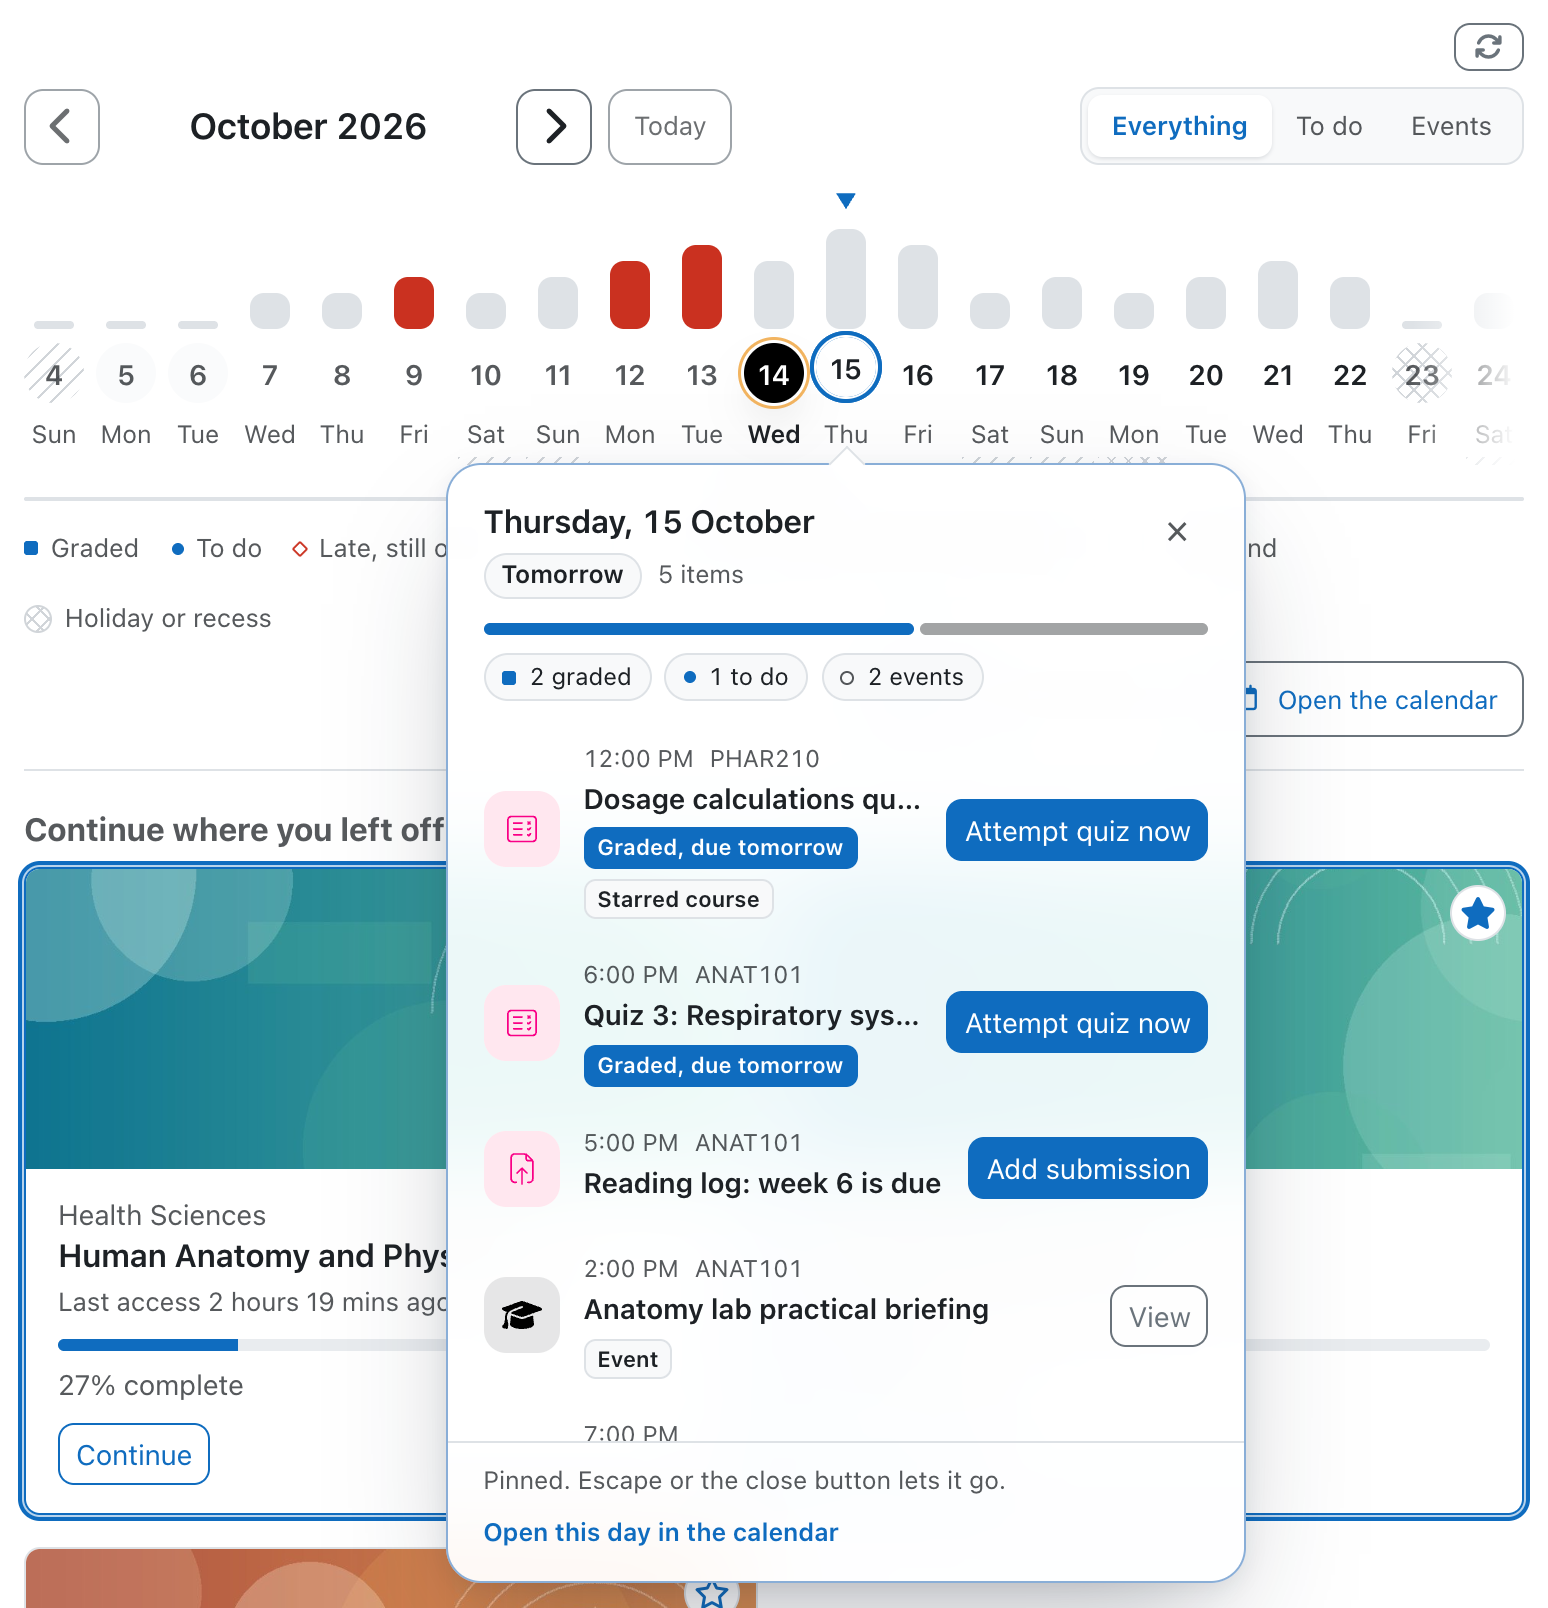
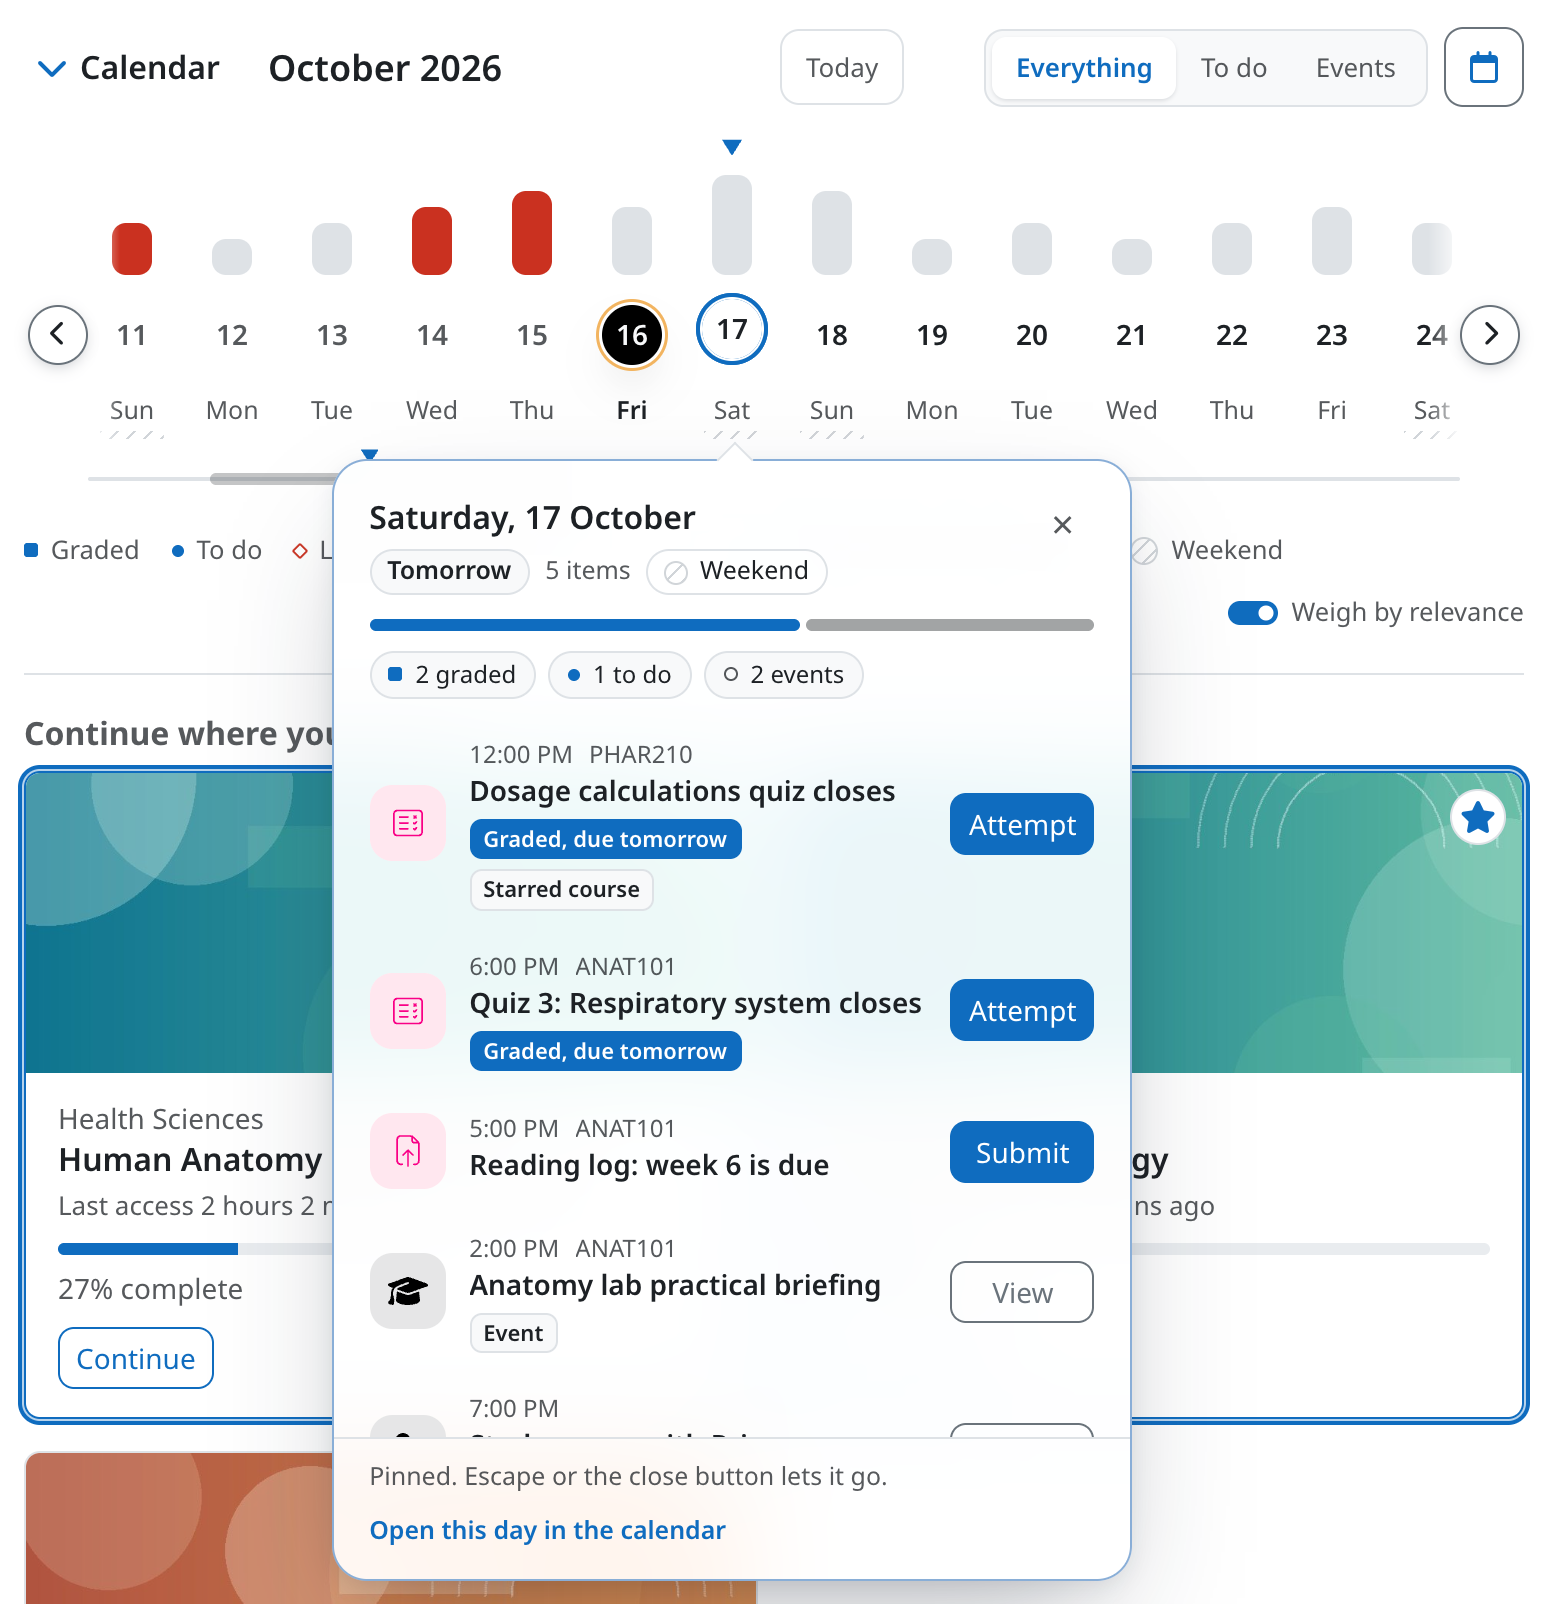
README screenshots retaken for the current calendar strip on 5.3 [skip ci]
The same retake as main's #40, on the m503 demo site: every block screenshot
again, plus the learner's closed line, the teaching line and the dim. This
demo site has no block_feedback_tracker, so the teaching line shows no To
grade cell and the strip no days off from that plugin; the README says both
appear where that plugin is installed. capture.mjs and the tools README
follow main's, pointed at m503.

diff --git a/README.md b/README.md
@@ -14,9 +14,9 @@ most courses have no end date and no completion rule, that turns into one long "
 list, expensive to build and hard to scan. Compass sorts the same enrolments by **relevance**:
 what I was doing, what just arrived, what I marked as mine, and what is due.
 
-- **Calendar strip** (optional). A row of days, from ten days ago to the end of next month,
-  each coloured by what it holds and weighted by relevance. Pointing at a day opens its items
-  with the actions the Timeline block offers.
+- **Calendar strip** (optional). Closed, one line of counts by period; open, a scrolling row of
+  days, from ten days ago to the end of next month (it opens on the last five, three on a
+  phone), each coloured by what it holds and weighted by relevance. Pointing at a day opens its items with the actions the Timeline block offers.
 - **Tier 1, attention.** Full cards (image, progress, button) in four strips: *Continue where
   you left off*, *New enrolments*, *Starts soon* and *My favourites*. A strip that overflows
   says so in its heading ("+4 new").
@@ -36,7 +36,7 @@ a query budget enforced by an automated test.
 The calendar strip
 ------------------
 
-![The calendar strip above the first tier: days coloured by load, today marked, dots counting each day's items by kind](docs/screenshots/calendar-strip.png)
+![The open calendar strip: a scrolling row of days coloured by load with five past days, today marked, floating arrows over the row's ends, a map under it and one mark per kind of item below each day](docs/screenshots/calendar-strip.png)
 
 The strip is off by default (`calendar_enabled`). When on, it sits above the first tier on the
 Dashboard, on the Compass page, or on both (`calendar_where`), and loads after the first tier so
@@ -49,6 +49,8 @@ the cards always paint first.
   its days, and Today and Tomorrow also open that day's card. A closed strip asks only for these
   counts, never for the whole strip; closing an open strip asks nothing. A count made before the
   strip was opened that day has no *Late* period yet and says so.
+
+  ![The closed strip: one line of counts for Late, Today, Tomorrow, This week and Later](docs/screenshots/calendar-line.png)
 - **Scrolling.** The row holds the whole window and scrolls with a trackpad, touch or the
   keyboard (arrows, Page Up and Down, Home and End), asking the server nothing. It opens with five
   past days before today (three on a narrow block); two arrows over its ends move two weeks at a
@@ -61,29 +63,40 @@ the cards always paint first.
   value.
 - **A day card.** Hovering a day wholly in view, focusing it or clicking it opens a card listing
   the day's items, with the buttons core's Timeline offers, such as "Add submission". A click
-  pins the card as a dialog; Escape closes it. On a narrow block it opens as a bottom sheet.
+  pins the card as a dialog; Escape closes it. On a narrow block it opens as a bottom sheet. Each
+  item's button carries a short verb for what core's Timeline would do: Submit, Answer, Attempt,
+  Grade, View or Open.
 
-  ![A day card open over the course cards: the day's items with core's action buttons](docs/screenshots/calendar-day-card.png)
+  ![A day card open over the course cards: the day's items with their action buttons (Attempt, Submit, View)](docs/screenshots/calendar-day-card.png)
 
 - **Studying and Teaching.** A user who learns in some courses and teaches in others gets a
   switch between the two views; which courses are learning ones follows the site's graded roles
   (`gradebookroles`). The teaching view counts the submissions waiting to be graded, in the same
   group core's grading page shows that teacher first, beside the class's deadlines. An
   *Everything* / *To do* / *Events* filter narrows either view. Both choices are remembered per
-  user. Closed, the teaching line counts grading work only with `block_feedback_tracker` (below);
-  without it, it counts the class's deadlines and events, and grading shows once it is open.
+  user. Closed, the teaching line counts grading work only with `block_feedback_tracker` (below),
+  as a *To grade* cell before the periods; without it, it counts the class's deadlines and
+  events, and grading shows once it is open. The switch is two icons (Studying, Teaching) where
+  the header is narrow.
 
-  ![The Teaching view of the strip: days carrying grading work, and a day card listing the submissions waiting to be graded](docs/screenshots/calendar-teaching.png)
+  ![The Teaching view of the strip, open: days carrying grading work, and a day card with the submissions waiting to be graded and the Grade button](docs/screenshots/calendar-teaching.png)
+
+  ![The teaching line, closed, on a site without block_feedback_tracker: the icon switch, then Today, Tomorrow, This week and Later, and a note that grading work shows when the strip is open](docs/screenshots/calendar-line-teaching.png)
+
+  The picture above is from a site without `block_feedback_tracker`. Where that plugin is
+  installed and covers the teacher's courses, the line also carries the *To grade* cell, a divider
+  and then the periods; the *To grade* cell and the days off from its calendar are not in any
+  picture here.
 
 - **Three styles** (`calendar_style`): dots, a ring per day (fewer days at once), or pulse bars.
 
-  ![The same days drawn in the ring and pulse styles, side by side](docs/screenshots/calendar-styles.png)
+  ![The same row drawn in the ring and pulse styles, side by side](docs/screenshots/calendar-styles.png)
 
   The pulse style draws each day's load as a bar, red where late work is still open:
 
-  ![The pulse style: a bar per day sized by its load, red bars on days with late work still open, weekends and a recess hatched](docs/screenshots/calendar-pulse.png)
+  ![The pulse style: a bar per day sized by its load, red bars on days with late work still open, hatched weekends under the day names](docs/screenshots/calendar-pulse.png)
 
-  ![The pulse style with a day card pinned: two graded quizzes due tomorrow, a submission to do and two events](docs/screenshots/calendar-pulse-card.png)
+  ![The pulse style with a day card pinned: two graded quizzes due tomorrow, a submission to do and events](docs/screenshots/calendar-pulse-card.png)
 
 - **Weekends and days off.** Empty weekend days are hatched. With
   [`block_feedback_tracker`](https://github.com/uaiblaine/moodle-block_feedback_tracker)
@@ -93,11 +106,14 @@ the cards always paint first.
   an activity that will close) is announced as "up to N" until the day is opened. Only
   activities the user can see are counted, and hidden and completed courses are left out.
 - **Linked to the cards.** Pointing at a first-tier card lights the days that hold its course;
-  opening a day outlines the cards of its courses.
+  opening a day outlines the cards of its courses. While a card is pointed at, the days that do
+  not hold its course dim their fills; their numbers stay legible.
+
+  ![Pointing at a course card: its days are ringed, the other days dim](docs/screenshots/calendar-dim.png)
 - **Readable everywhere.** Month, weekday and time names come from the language pack, and every
   mark keeps its contrast in dark mode.
 
-  ![The calendar strip and the course cards in dark mode](docs/screenshots/calendar-dark.png)
+  ![The open strip with a day card pinned, in dark mode](docs/screenshots/calendar-dark.png)
 
 
 All courses and the Compass page
@@ -125,7 +141,7 @@ theme's page without block regions. While it is on, "Compass" is offered under *
 administration > Appearance > Navigation > Start page for users* and in each user's home page
 preference. Off, the page redirects to the Dashboard. Guests are sent to the front page.
 
-![Compass on a phone: a short calendar strip above the course cards in a single column](docs/screenshots/mobile.png)
+![Compass on a phone: the strip with three past days and a peek of the next, and a day card as a bottom sheet](docs/screenshots/mobile.png)
 
 The cards count their columns from the block's own width (three, two or one), so the block works
 in the block drawer and on a phone as well as on a wide Dashboard.

diff --git a/docs/screenshots/tools/README.md b/docs/screenshots/tools/README.md
@@ -1,8 +1,8 @@
 # Screenshot tools
 
 How the pictures in `docs/screenshots/` are made, and how to use the demo site they come from.
-Development sites only; written for the m502b stack (`http://localhost:9502`, container
-`m502b-webserver-1`, plugin at `/var/www/html/public/blocks/compass`).
+Development sites only; written for the m503 stack (`http://localhost:8503`, container
+`m503-webserver-1`, plugin at `/var/www/html/public/blocks/compass`).
 
 | File | What it does |
 |---|---|
@@ -22,33 +22,42 @@ learner in two courses), plus eight classmates `demo.priya`, `demo.marcus`, `dem
 Their passwords were generated at random by the first run of `seed_demo.php` and are written
 only to **`docs/screenshots/tools/demo-credentials.txt`** (one `username password` per line,
 ignored by git, present only in the checkout that ran the seeder). Sign in at
-`http://localhost:9502/login/index.php`; while `auth_loginsteps` is enabled on the stack and asks
-for a CPF first, use `http://localhost:9502/login/index.php?nocpf=1`. The site theme is
+`http://localhost:8503/login/index.php`; while `auth_loginsteps` is enabled on the stack and asks
+for a CPF first, use `http://localhost:8503/login/index.php?nocpf=1`. The site theme is
 a Boost Union child theme; the screenshots show Boost, which `session.php` puts in the session (any
 session can do the same with `?theme=boost` while `allowthemechangeonurl` is on).
 
 Without a password, from a shell on the server:
 
 ```sh
-docker exec m502b-webserver-1 php /var/www/html/public/blocks/compass/docs/screenshots/tools/session.php --username=demo.student
-# prints MoodleSession502b=<sid>: set it as a cookie for localhost:9502; end it afterwards with
-docker exec m502b-webserver-1 php /var/www/html/public/blocks/compass/docs/screenshots/tools/session.php --destroy=<sid>
+docker exec m503-webserver-1 php /var/www/html/public/blocks/compass/docs/screenshots/tools/session.php --username=demo.student
+# prints MoodleSession503=<sid>: set it as a cookie for localhost:8503; end it afterwards with
+docker exec m503-webserver-1 php /var/www/html/public/blocks/compass/docs/screenshots/tools/session.php --destroy=<sid>
 ```
 
 ## Taking the screenshots again
 
 ```sh
 T=/var/www/html/public/blocks/compass/docs/screenshots/tools
-docker exec m502b-webserver-1 php $T/seed_demo.php           # refresh the dates
-docker exec m502b-webserver-1 php $T/holidays.php --add      # if holidays-state.json is absent
+docker exec m503-webserver-1 php $T/seed_demo.php           # refresh the dates
+docker exec m503-webserver-1 php $T/holidays.php --add      # only where block_feedback_tracker is installed (not on m503)
 # block_compass settings the strip needs: calendar_enabled=1, calendar_sources with "user"
 # One cookie per user, in a JSON file outside the repository:
-#   {"demo.student": "MoodleSession502b=...", "demo.teacher": "...", "admin": "..."}
+#   {"demo.student": "MoodleSession503=...", "demo.teacher": "...", "admin": "..."}
 COMPASS_SESSIONS=/path/sessions.json node capture.mjs        # every shot but ring and pulse
 # calendar_style=ring: node capture.mjs ring; calendar_style=pulse: node capture.mjs pulse (also calendar-pulse.png and calendar-pulse-card.png);
 # calendar_style back to dots
 python3 finish.py
 ```
+
+Each shot puts the strip in the state it needs (open or closed) by pressing the heading's toggle,
+which writes the user's `block_compass_calendar` preference, and waits for that state's data: the
+open row's days, or the closed line's counts. Note each demo user's `open` value before a run and
+restore it afterwards. The shots are `dashboard`, `strip` (open, student), `card`, `teaching`
+(open, a day with submissions to grade pinned), `line` (closed, student), `lineteaching` (closed,
+teacher; the *To grade* cell is there only with block_feedback_tracker, which m503 lacks, so the shot
+shows the line without it and prints a NOTE), `dim` (a tier 1 card hovered, the other days dimmed), `dark`, `explore`, `page`,
+`mobile` and `settings`, plus `ring` and `pulse`.
 
 Node 22 or later (global `WebSocket`), Google Chrome at its macOS path or `CHROME_BIN`. The card
 opens on tomorrow, the richest day of the seeded data. The texts that depend on the clock ("Last
